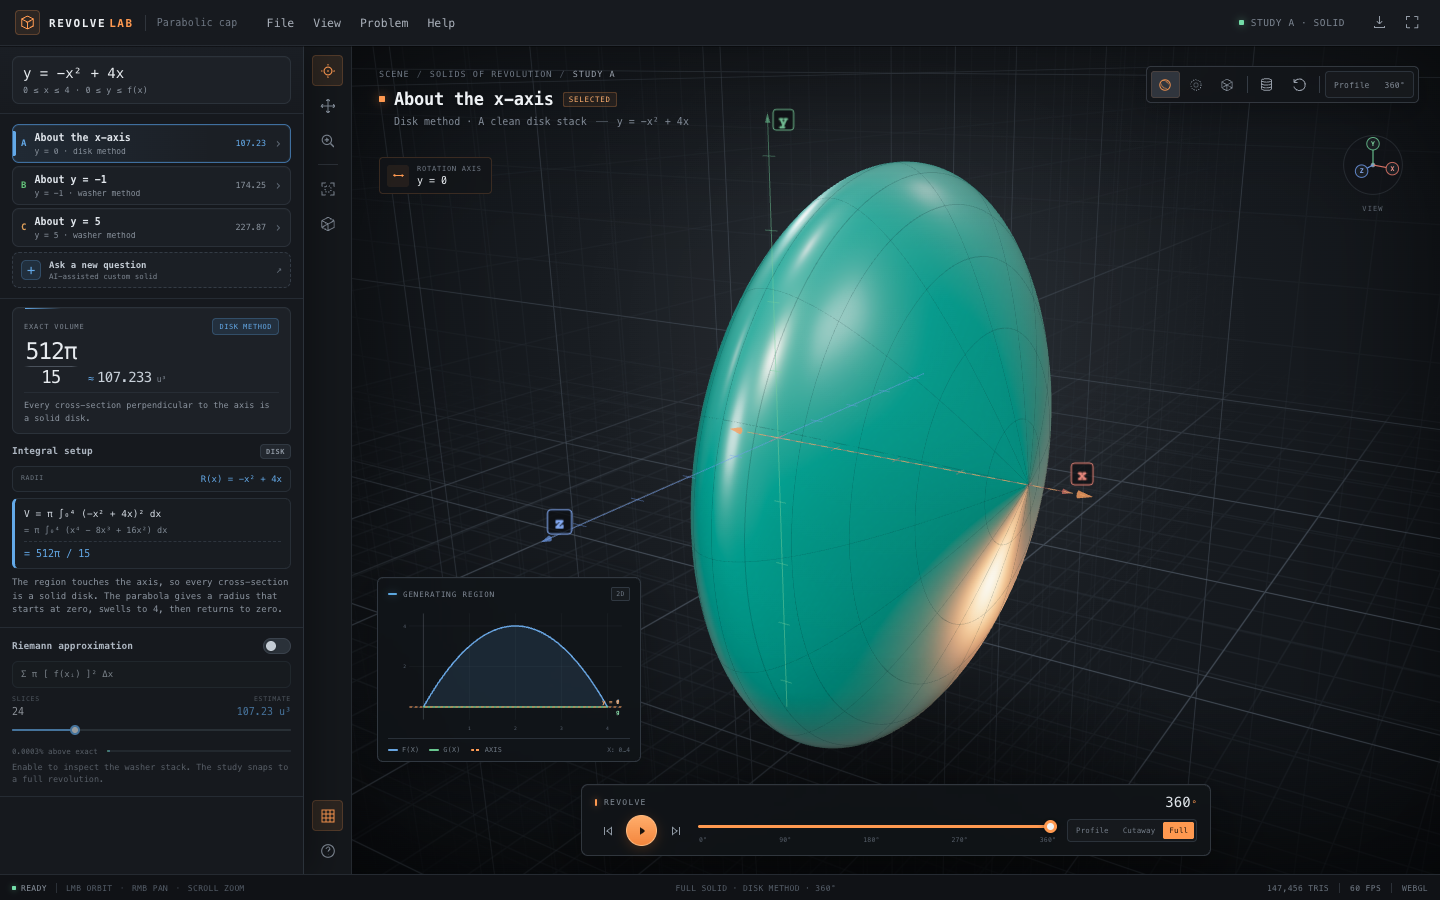
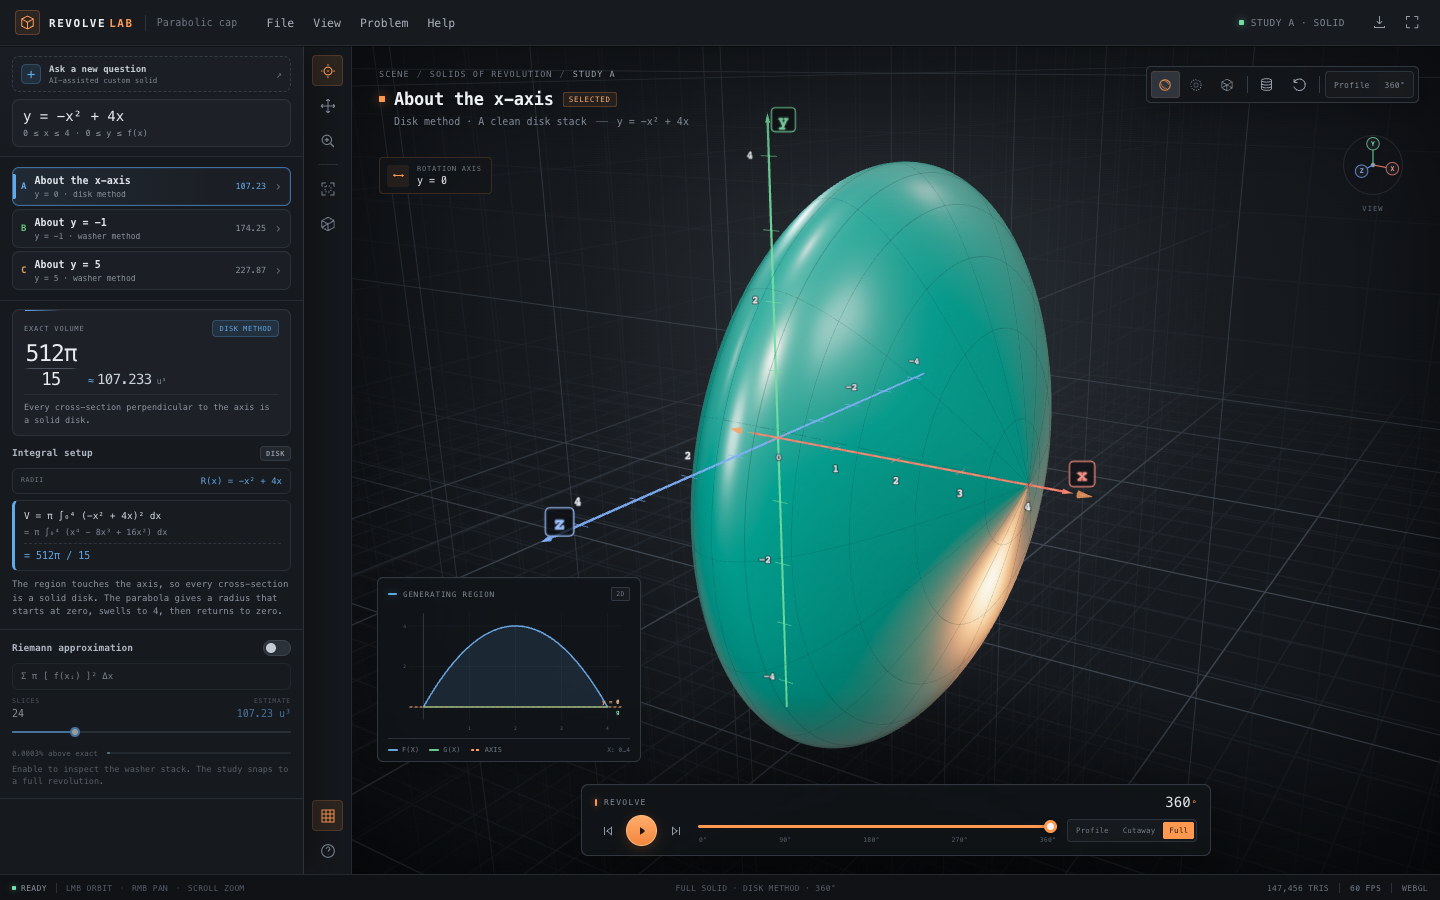
Move new-problem action to sidebar top and add scaled 3D axis ticks

diff --git a/src/main.js b/src/main.js
@@ -295,18 +295,18 @@ const coordinateAxesGroup = new THREE.Group();
 scene.add(coordinateAxesGroup);
 
 const coordinatePalette = {
-  x: 0xe77a6c,
-  y: 0x74d49f,
-  z: 0x6f9df1,
+  x: 0xff7a6e,
+  y: 0x73e3a1,
+  z: 0x7fb2ff,
 };
 
-function makeCoordinateLine(color) {
-  return new THREE.Line(
-    new THREE.BufferGeometry(),
-    new THREE.LineBasicMaterial({
+function makeCoordinateShaft(color) {
+  return new THREE.Mesh(
+    new THREE.CylinderGeometry(1, 1, 1, 12),
+    new THREE.MeshBasicMaterial({
       color,
       transparent: true,
-      opacity: 0.48,
+      opacity: 0.92,
       depthTest: false,
       depthWrite: false,
       toneMapped: false,
@@ -320,7 +320,7 @@ function makeCoordinateArrow(color) {
     new THREE.MeshBasicMaterial({
       color,
       transparent: true,
-      opacity: 0.66,
+      opacity: 0.9,
       depthTest: false,
       depthWrite: false,
       toneMapped: false,
@@ -368,21 +368,23 @@ function makeCoordinateBadge(letter, color) {
   return sprite;
 }
 
-const coordXLine = makeCoordinateLine(coordinatePalette.x);
-const coordYLine = makeCoordinateLine(coordinatePalette.y);
-const coordZLine = makeCoordinateLine(coordinatePalette.z);
+const coordXShaft = makeCoordinateShaft(coordinatePalette.x);
+const coordYShaft = makeCoordinateShaft(coordinatePalette.y);
+const coordZShaft = makeCoordinateShaft(coordinatePalette.z);
+coordXShaft.rotation.z = -Math.PI / 2;
+coordZShaft.rotation.x = Math.PI / 2;
 const coordXArrow = makeCoordinateArrow(coordinatePalette.x);
 const coordYArrow = makeCoordinateArrow(coordinatePalette.y);
 const coordZArrow = makeCoordinateArrow(coordinatePalette.z);
 coordXArrow.rotation.z = -Math.PI / 2;
 coordZArrow.rotation.x = Math.PI / 2;
-const coordXBadge = makeCoordinateBadge("x", "#ef8a7e");
-const coordYBadge = makeCoordinateBadge("y", "#86e1ae");
-const coordZBadge = makeCoordinateBadge("z", "#88b0fb");
+const coordXBadge = makeCoordinateBadge("x", "#ff958a");
+const coordYBadge = makeCoordinateBadge("y", "#8cf0b7");
+const coordZBadge = makeCoordinateBadge("z", "#9ec4ff");
 coordinateAxesGroup.add(
-  coordXLine,
-  coordYLine,
-  coordZLine,
+  coordXShaft,
+  coordYShaft,
+  coordZShaft,
   coordXArrow,
   coordYArrow,
   coordZArrow,
@@ -397,7 +399,7 @@ function makeCoordinateTicks(color) {
     new THREE.LineBasicMaterial({
       color,
       transparent: true,
-      opacity: 0.38,
+      opacity: 0.58,
       depthTest: false,
       depthWrite: false,
       toneMapped: false,
@@ -410,9 +412,113 @@ const coordYTicks = makeCoordinateTicks(coordinatePalette.y);
 const coordZTicks = makeCoordinateTicks(coordinatePalette.z);
 coordinateAxesGroup.add(coordXTicks, coordYTicks, coordZTicks);
 
-function setCoordinateLine(line, points) {
-  line.geometry.dispose();
-  line.geometry = new THREE.BufferGeometry().setFromPoints(points);
+const coordinateLabelsGroup = new THREE.Group();
+coordinateAxesGroup.add(coordinateLabelsGroup);
+const numberTextureCache = new Map();
+
+function setCoordinateShaft(mesh, start, end, radius) {
+  const length = start.distanceTo(end);
+  mesh.position.copy(start).add(end).multiplyScalar(0.5);
+  mesh.scale.set(radius, length, radius);
+}
+
+function makeNumberSprite(text, color, scale) {
+  const key = `${color}|${text}`;
+  let texture = numberTextureCache.get(key);
+  if (!texture) {
+    const canvas = document.createElement("canvas");
+    canvas.width = 160;
+    canvas.height = 80;
+    const ctx = canvas.getContext("2d");
+    ctx.clearRect(0, 0, 160, 80);
+    ctx.font = '600 40px "MesloLGS Nerd Font", monospace';
+    ctx.textAlign = "center";
+    ctx.textBaseline = "middle";
+    ctx.lineWidth = 7;
+    ctx.strokeStyle = "rgba(8, 11, 15, 0.92)";
+    ctx.fillStyle = color;
+    ctx.strokeText(text, 80, 42);
+    ctx.fillText(text, 80, 42);
+    texture = new THREE.CanvasTexture(canvas);
+    texture.colorSpace = THREE.SRGBColorSpace;
+    texture.needsUpdate = true;
+    numberTextureCache.set(key, texture);
+  }
+
+  const sprite = new THREE.Sprite(
+    new THREE.SpriteMaterial({
+      map: texture,
+      transparent: true,
+      depthTest: false,
+      depthWrite: false,
+      toneMapped: false,
+    }),
+  );
+  sprite.scale.set(scale, scale * 0.5, 1);
+  sprite.renderOrder = 31;
+  return sprite;
+}
+
+function clearCoordinateLabels() {
+  for (const sprite of [...coordinateLabelsGroup.children]) {
+    coordinateLabelsGroup.remove(sprite);
+    sprite.material.dispose();
+  }
+}
+
+function formatAxisNumber(value) {
+  return String(Math.round(value)).replace("-", "−");
+}
+
+function labelStepFor(start, end) {
+  const span = end - start;
+  if (span > 16) return 5;
+  if (span > 6) return 2;
+  return 1;
+}
+
+function updateCoordinateNumbers(
+  anchorX,
+  xStart,
+  xEnd,
+  yStart,
+  yEnd,
+  zStart,
+  zEnd,
+  scale,
+) {
+  clearCoordinateLabels();
+  const labelScale = clamp(scale * 1.05, 0.56, 1.1);
+
+  if (xStart <= 0 && xEnd >= 0) {
+    const zero = makeNumberSprite("0", "#c6cdd6", labelScale * 0.88);
+    zero.position.set(0, -0.3, 0);
+    coordinateLabelsGroup.add(zero);
+  }
+
+  const xStep = labelStepFor(xStart, xEnd);
+  for (let x = Math.ceil(xStart / xStep) * xStep; x <= xEnd + 1e-6; x += xStep) {
+    if (Math.abs(x) < 1e-6) continue;
+    const sprite = makeNumberSprite(formatAxisNumber(x), "#e9eef5", labelScale);
+    sprite.position.set(x, -0.3, 0);
+    coordinateLabelsGroup.add(sprite);
+  }
+
+  const yStep = labelStepFor(yStart, yEnd);
+  for (let y = Math.ceil(yStart / yStep) * yStep; y <= yEnd + 1e-6; y += yStep) {
+    if (Math.abs(y) < 1e-6) continue;
+    const sprite = makeNumberSprite(formatAxisNumber(y), "#e9eef5", labelScale);
+    sprite.position.set(anchorX - 0.32, y, 0);
+    coordinateLabelsGroup.add(sprite);
+  }
+
+  const zStep = labelStepFor(zStart, zEnd);
+  for (let z = Math.ceil(zStart / zStep) * zStep; z <= zEnd + 1e-6; z += zStep) {
+    if (Math.abs(z) < 1e-6) continue;
+    const sprite = makeNumberSprite(formatAxisNumber(z), "#e9eef5", labelScale);
+    sprite.position.set(anchorX, 0.3, z);
+    coordinateLabelsGroup.add(sprite);
+  }
 }
 
 function setTickGeometry(lines, points) {
@@ -429,7 +535,7 @@ function tickStepFor(start, end) {
 
 function updateCoordinateTicks(anchorX, xStart, xEnd, yStart, yEnd, zStart, zEnd) {
   const span = Math.max(xEnd - xStart, yEnd - yStart, zEnd - zStart);
-  const baseTick = clamp(span * 0.012, 0.045, 0.11);
+  const baseTick = clamp(span * 0.015, 0.06, 0.14);
 
   const xPoints = [];
   const xStep = tickStepFor(xStart, xEnd);
@@ -479,18 +585,30 @@ function updateCoordinateAxes(problem) {
   const zStart = -maxRadius - 0.35;
   const zEnd = maxRadius + 0.55;
 
-  setCoordinateLine(coordXLine, [
+  const axisRadius = clamp(
+    Math.max(xHigh - xLow, maxRadius) * 0.0038,
+    0.014,
+    0.03,
+  );
+
+  setCoordinateShaft(
+    coordXShaft,
     new THREE.Vector3(xStart, 0, 0),
     new THREE.Vector3(xEnd, 0, 0),
-  ]);
-  setCoordinateLine(coordYLine, [
+    axisRadius,
+  );
+  setCoordinateShaft(
+    coordYShaft,
     new THREE.Vector3(anchorX, yStart, 0),
     new THREE.Vector3(anchorX, yEnd, 0),
-  ]);
-  setCoordinateLine(coordZLine, [
+    axisRadius,
+  );
+  setCoordinateShaft(
+    coordZShaft,
     new THREE.Vector3(anchorX, 0, zStart),
     new THREE.Vector3(anchorX, 0, zEnd),
-  ]);
+    axisRadius,
+  );
 
   updateCoordinateTicks(
     anchorX,
@@ -510,13 +628,24 @@ function updateCoordinateAxes(problem) {
   coordYArrow.position.set(anchorX, yEnd, 0);
   coordZArrow.position.set(anchorX, 0, zEnd);
 
-  const badgeScale = clamp(Math.max(xHigh - xLow, maxRadius) * 0.075, 0.5, 1.0);
+  const badgeScale = clamp(Math.max(xHigh - xLow, maxRadius) * 0.085, 0.58, 1.1);
   coordXBadge.position.set(xEnd + 0.18, 0.28, 0);
   coordYBadge.position.set(anchorX + 0.26, yEnd - 0.02, 0);
   coordZBadge.position.set(anchorX + 0.26, 0.28, zEnd);
   for (const badge of [coordXBadge, coordYBadge, coordZBadge]) {
     badge.scale.set(badgeScale, badgeScale, 1);
   }
+
+  updateCoordinateNumbers(
+    anchorX,
+    xStart,
+    xEnd,
+    yStart,
+    yEnd,
+    zStart,
+    zEnd,
+    badgeScale,
+  );
 }
 
 function updateAxisVisual(axisValue, x0, x1) {

diff --git a/index.html b/index.html
@@ -327,6 +327,11 @@
 
         <aside class="panel" id="propertiesPanel">
           <div class="panel-hero">
+            <button class="build-problem-button" id="buildProblemBtn">
+              <span class="build-problem-icon">+</span>
+              <span><strong>Ask a new question</strong><small>AI-assisted custom solid</small></span>
+              <span class="build-problem-arrow">↗</span>
+            </button>
             <div class="region-card">
               <div class="region-equation" id="regionEquation">y = −x² + 4x</div>
               <div class="region-domain" id="regionDomain">0 ≤ x ≤ 4 <span>·</span> 0 ≤ y ≤ f(x)</div>
@@ -336,11 +341,6 @@
           <div class="panel-scroll">
             <section class="panel-section cases-section">
               <div class="case-list" id="caseList"></div>
-              <button class="build-problem-button" id="buildProblemBtn">
-                <span class="build-problem-icon">+</span>
-                <span><strong>Ask a new question</strong><small>AI-assisted custom solid</small></span>
-                <span class="build-problem-arrow">↗</span>
-              </button>
             </section>
 
             <section class="volume-card" id="volumeCard">

diff --git a/src/style.css b/src/style.css
@@ -2806,6 +2806,9 @@ kbd {
 }
 
 .panel .panel-hero {
+  display: flex;
+  flex-direction: column;
+  gap: 7px;
   padding: 10px 12px 9px;
   background: linear-gradient(180deg, #1a1e24, #171a1f);
   border-bottom-color: #252b33;
@@ -2971,6 +2974,10 @@ kbd {
   background: #1b1f25;
   border-color: #333b45;
   border-radius: 7px;
+}
+
+.panel .panel-hero .build-problem-button {
+  margin: 0;
 }
 
 .panel .build-problem-button:hover {

diff --git a/README.md b/README.md
@@ -136,7 +136,7 @@ V_C=\pi\int_0^4\left[25-\left(5-(-x^2+4x)\right)^2\right]dx
 - **Profile / Full solid** snaps back to the source region or the completed solid.
 - **Viewport presets** repeat the `Profile` and `360°` actions in the top-right viewport toolbar.
 - **Generating region graph** shows a color-coded 2D graph of \(f(x)\), \(g(x)\), and the rotation line.
-- **3D coordinate frame** draws \(x\), \(y\), and \(z\) axes with tick marks, plus floor and vertical grid planes alongside the orange rotation axis.
+- **3D coordinate frame** draws \(x\), \(y\), and \(z\) axes with numbered tick marks, plus floor and vertical grid planes alongside the orange rotation axis.
 - Keyboard: `1` `2` `3` switch axes, `Space` play/pause, `4` cutaway, `F` frame, `G` grid, `W` wireframe, `X` X-ray, `N` new problem.
 
 ## Geometry notes
